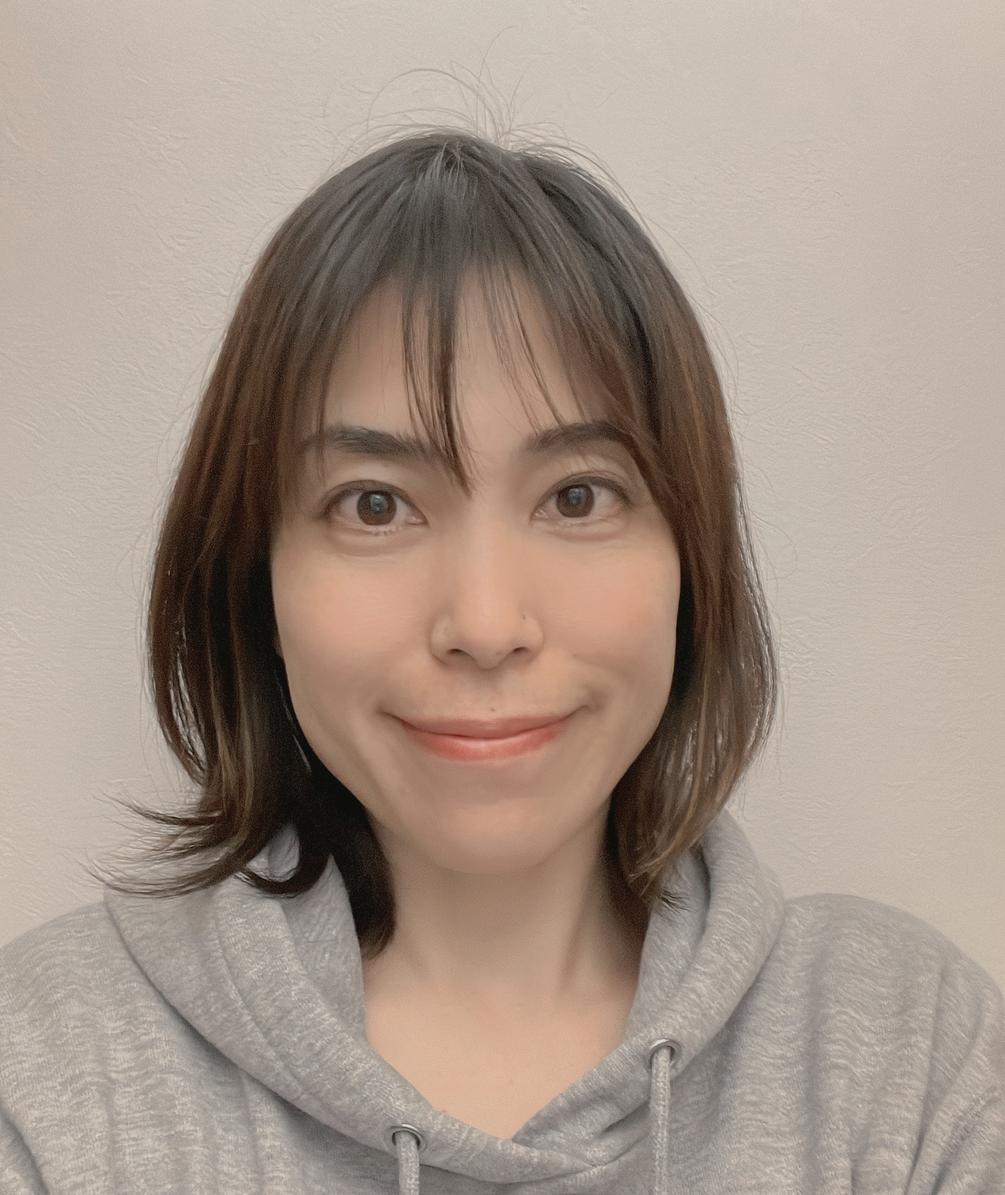
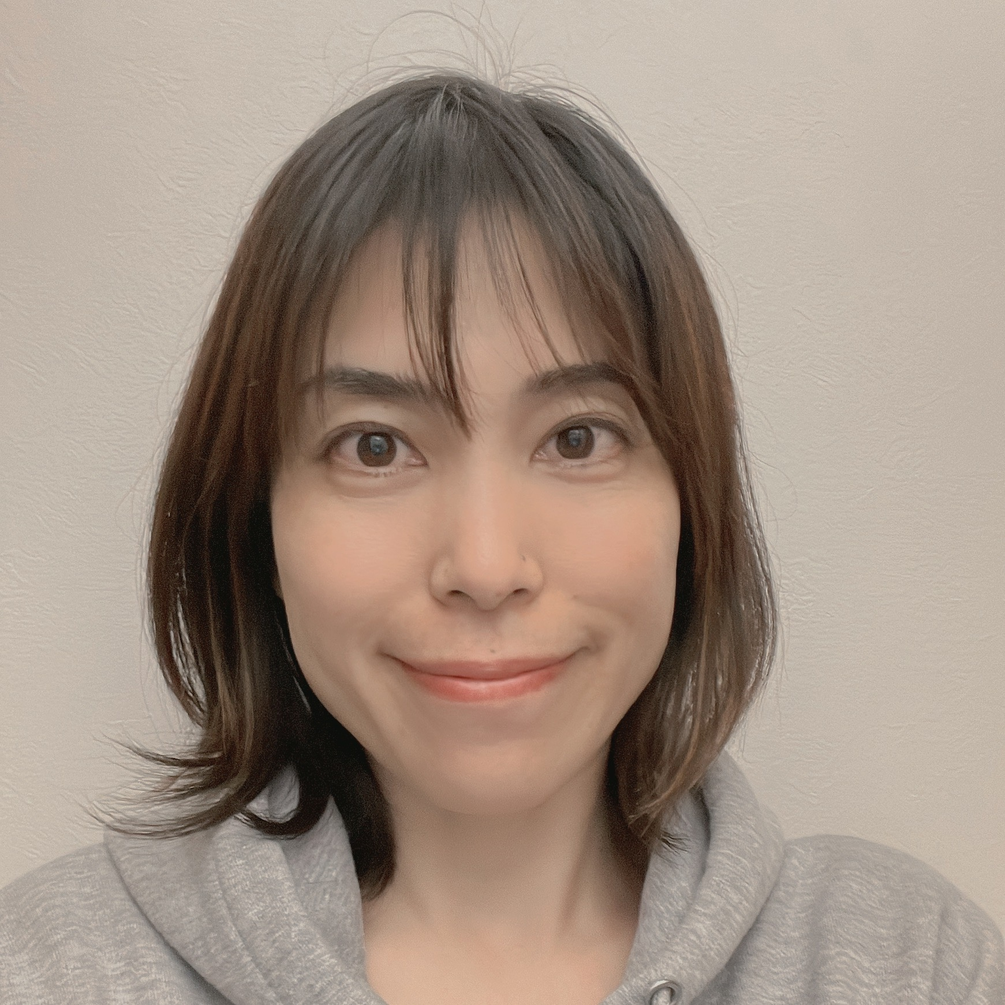
about section final

Changed region(s): [[0.0, 0.3412, 1.0, 1.0], [0.2171, 0.062, 0.6824, 0.2791], [0.6824, 0.2481, 0.7134, 0.2791]]

diff --git a/source/stylesheets/pages/_about.scss b/source/stylesheets/pages/_about.scss
@@ -1,12 +1,24 @@
 .section-title {
+  margin-top: 30px;
+  margin-bottom: 30px;
+}
+
+.section-title h2 {
+  color: white;
+  text-shadow: 2px 2px 2px rgba(77, 75, 75, 0.3);
   text-align: center;
 }
 
-.about-container {
+.about-contents {
   display: flex;
-  padding-top: 30px;
+  margin-top: 30px;
+  margin-bottom: 30px;
 }
 
-.about-info {
+.about-text {
   font-size: 18px;
+  display: grid;
+  align-content: space-between;
+  color: white;
+  text-shadow: 2px 2px 2px rgba(77, 75, 75, 0.3);
 }

diff --git a/source/stylesheets/components/_avatar.scss b/source/stylesheets/components/_avatar.scss
@@ -1,7 +1,8 @@
 .avatar {
-  width: 200px;
-  border-radius: 50%;
-  box-shadow: 0 1px 2px rgba(0,0,0,0.2);
+  width: 230px;
+  height: 230px;
+  border-radius: 50% 50% 50% 70%/50% 50% 70% 60%;
+  box-shadow: 0 1px 2px rgba(66, 65, 65, 0.2);
   margin-right: 56px;
 }
 .avatar-large {

diff --git a/source/stylesheets/components/_container.scss b/source/stylesheets/components/_container.scss
@@ -2,6 +2,4 @@
   max-width: 960px;
   margin: 0 auto;
   padding-bottom: 2.5rem;
-  color: white;
-  text-shadow: 4px 4px 4px rgba(44, 44, 44, 0.1);
 }
